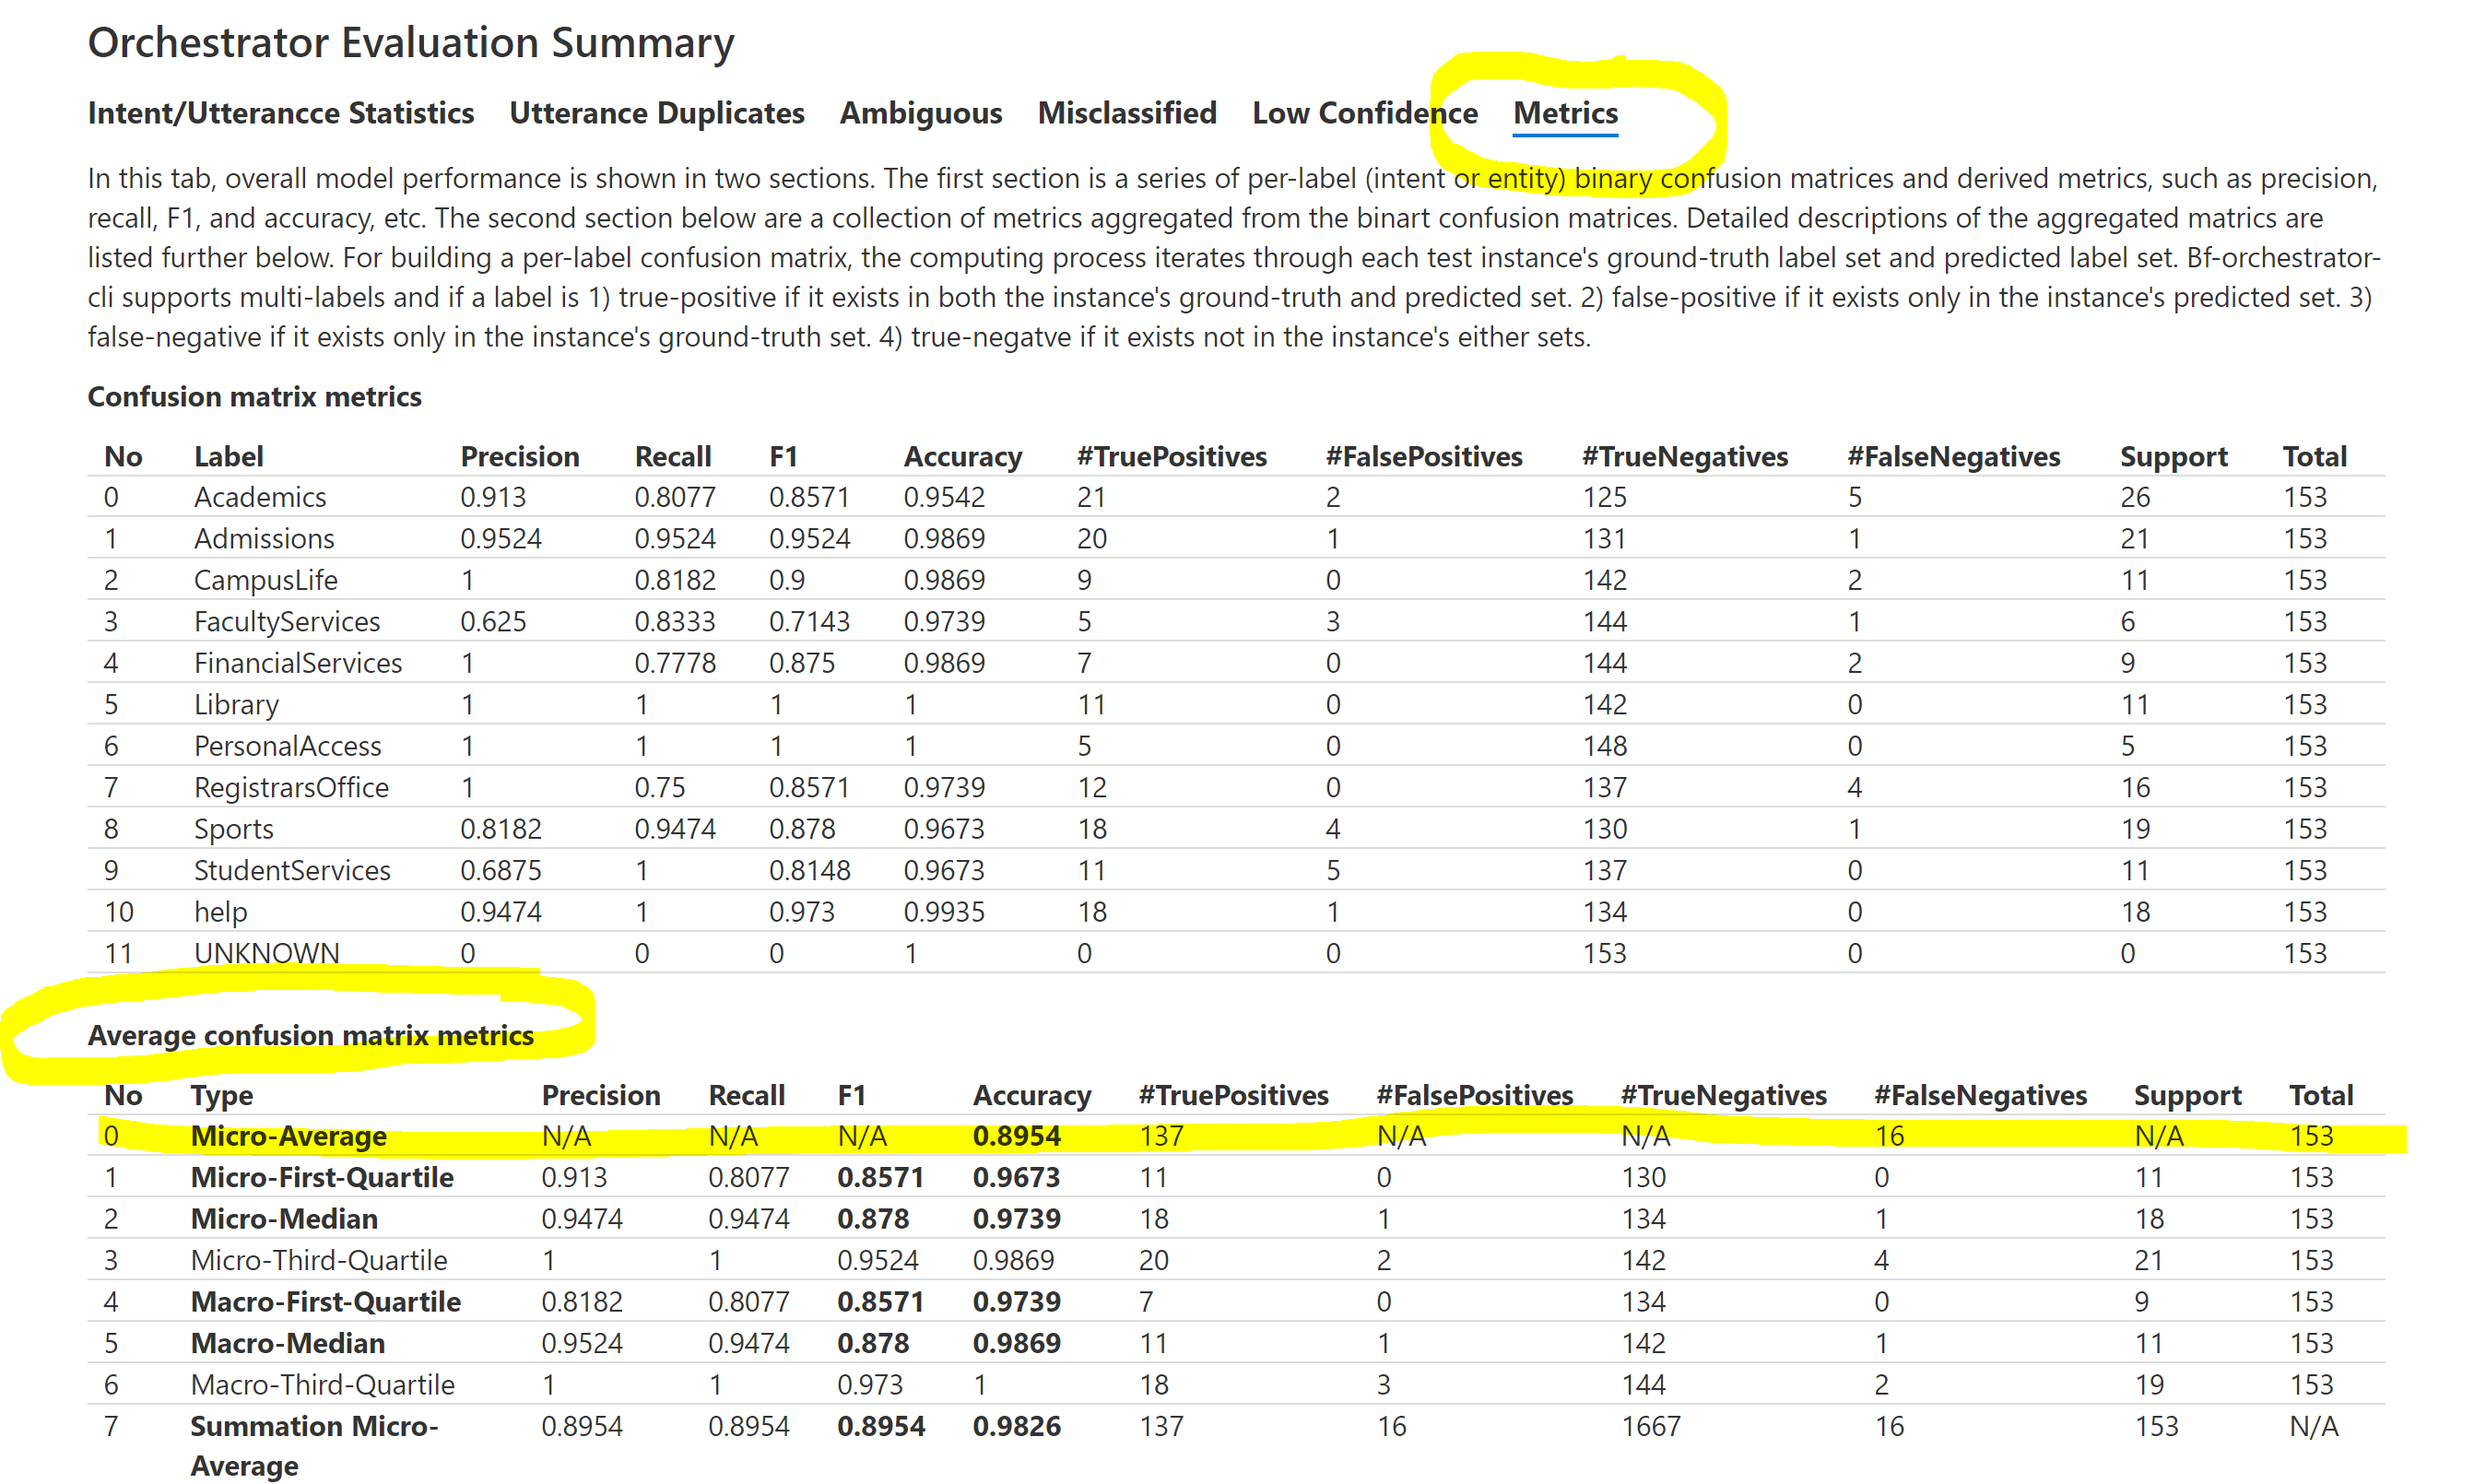
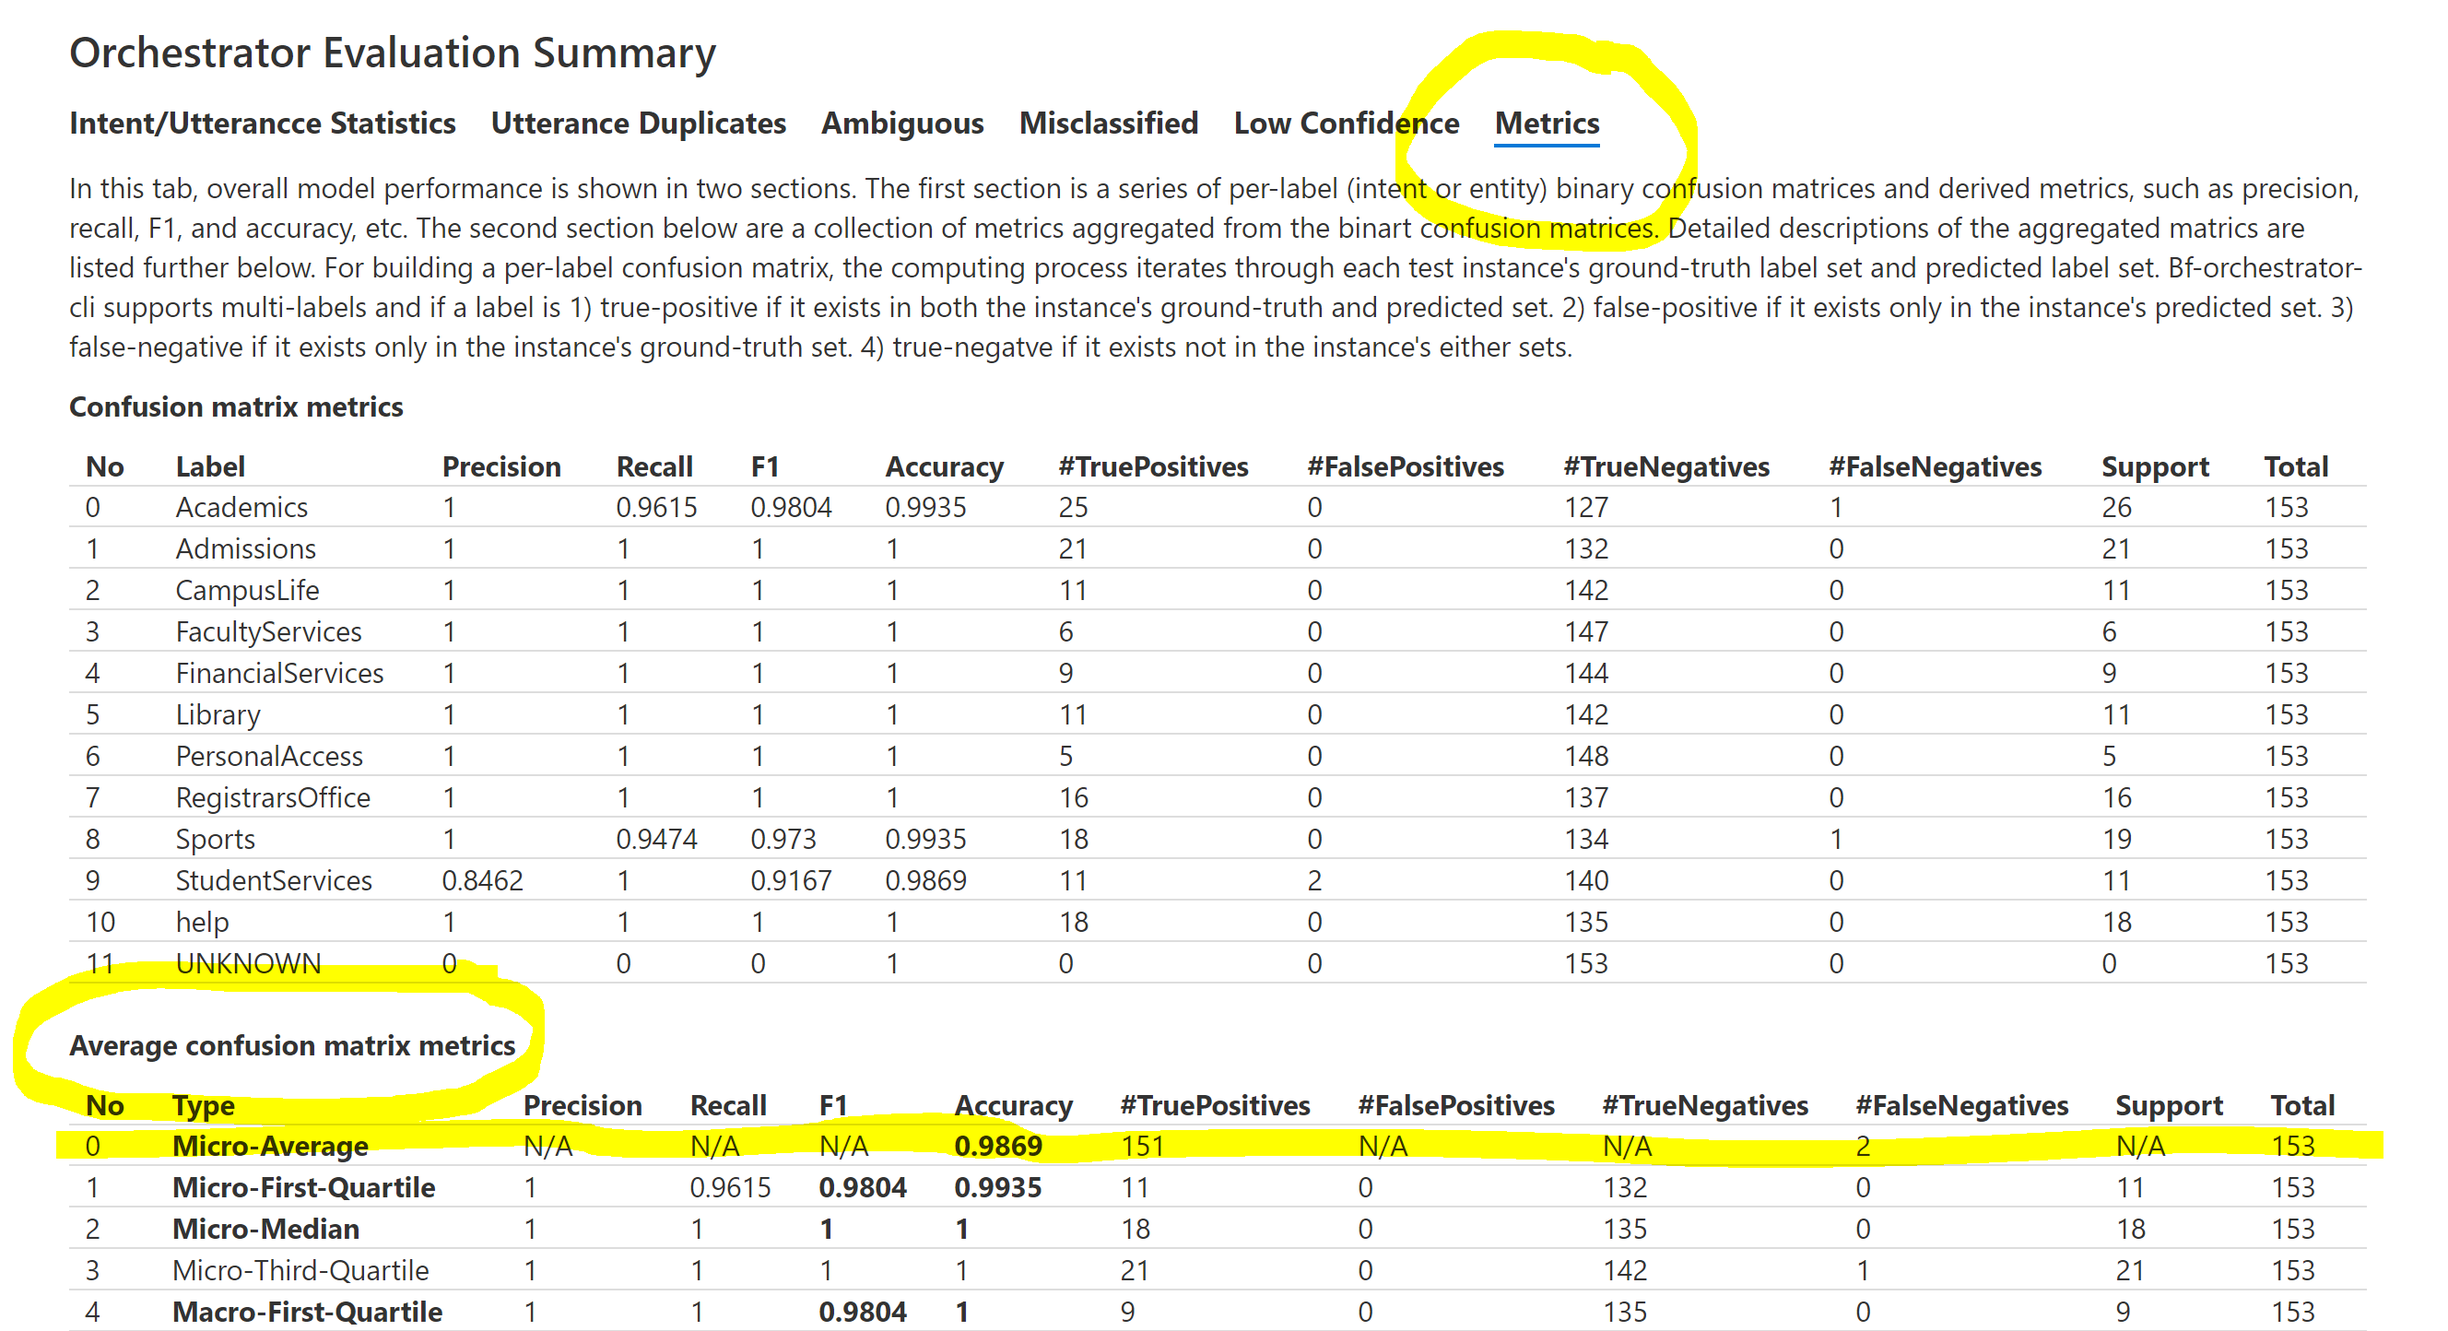
editing according to Eyal's comments (#2926)
* editing according to Eyal's comments

* done until # help

* down to 290 samples

* Update schoolnavigatorbot.train.lu

* new pictures

* Update README.md

* try to restart build

Changed region(s): [[0.0, 0.0, 1.0, 1.0]]

diff --git a/experimental/orchestrator/Composer/01.school-skill-navigator/README.md b/experimental/orchestrator/Composer/01.school-skill-navigator/README.md
@@ -79,17 +79,17 @@ The snapshot of the language model file should be written to schoolnavigatorbot.
 
 Evaluation reports should be written to folder [report](report). Detail report interpretation can be found [here](https://github.com/microsoft/botframework-sdk/blob/main/Orchestrator/docs/BFOrchestratorReport.md).
 
-- Open **report/orchestrator_testing_set_summary.html** through a browser, and navigate to the **Average confusion matrix metrics** section from the last page **Metrics**, you will find the recommended evaluation metric: **Micro-Average Accuracy** = 0.8954.![Metrics](report/merics.PNG)
+- Open **report/orchestrator_testing_set_summary.html** through a browser, and navigate to the **Average confusion matrix metrics** section from the last page **Metrics**, you will find the recommended evaluation metric: **Micro-Average Accuracy** = 0.9869.![Metrics](report/merics.PNG)
 
 ### Improve
 
-Accuracy 0.8954 is high but not perfect yet. To improve the quality of the training set, we could benefit from the **Misclassified** information from the evaluation report. In this page, all mis-labeled query utterances from the test set are listed. **Labels** refer to the ground-truth labels, and **predictions** refer to the model predictions.![Misclassified](report/misclassified.PNG)
+Accuracy 0.9869 is high but not perfect yet. To improve the quality of the training set, we could benefit from the **Misclassified** information from the evaluation report. In this page, all mis-labeled query utterances from the test set are listed. **Labels** refer to the ground-truth labels, and **predictions** refer to the model predictions. In our example, there are 2 mis-labeled utterances, we will use them to illustrate the improving process here.![Misclassified](report/misclassified.PNG)
 
-Next we are going to use the first two mis-classified query utterances to show how to improve the training set.
+Next we are going to use the two mis-classified query utterances to show how to improve the training set. 
 
 - The first utterance "where are the tennis courts" should be labeled as Sports, but is mis-labeled as StudentServices. Closest Example shows the closest evidence example from that category, and Score shows the similarity between the query utterance and Closest Example. Taking a closer look into the examples, "where are the Recreation facilities" and "where's the gym" are essentially referring to the same thing, but separated into different labels, which eventually confused the model. To clarify the concepts, we could **manually relabel the utterance "where are the Recreation facilities" by moving it  from # StudentServices to # Sports in schoolnavigatorbot.train.lu.** 
 
-- The second utterance "where is the Healthcare Management school" should be labeled as Academics, but is mis-labeled as StudentServices. To correct the query prediction, we could **manually add it ("where is the Healthcare Management school") to # Academics in schoolnavigatorbot.train.lu.**
+- The second utterance "where is the Healthcare Management school" should be labeled as Academics, but is mis-labeled as StudentServices. To correct the query prediction, we could **manually add a close example ("where can I find Healthcare Management") to # Academics in schoolnavigatorbot.train.lu.**
 
 - After fixing the two query utterances, we could try the evaluation process again to check the progress:
 
@@ -98,7 +98,10 @@ Next we are going to use the first two mis-classified query utterances to show h
   > bf orchestrator:test -m model -i schoolnavigatorbot.train.blu -t schoolnavigatorbot.test.lu -o report
   ```
 
-- Open **report/orchestrator_testing_set_summary.html** again, and check the **Micro-Average** under **Metrics** page, the accuracy has improved from 0.8953 to 0.9085, and the two query utterances no longer show up in misclassified page.
+- Open **report/orchestrator_testing_set_summary.html** again, and check the **Micro-Average** under **Metrics** page, the accuracy has improved from 0.9869 to 1, and the two query utterances no longer show up in misclassified page.
+
+- In practice, users could repeat the aforementioned procedures until they are satisfied with accuracy, refined as (1) using Misclassified page to check for mis-labeled utterances; (2) editing .lu file to add or relabel utterances; (3) using bf orchestrator:create to regenerate the language model; and (4) using bf orchestrator:test to evaluate the performance.
+
 - Advanced users could also use bf orchestrator:interactive to interactively add/change/remove example utterances to improve the training set. Further information please refer to [bf orchestrator interactive](https://github.com/microsoft/botframework-sdk/blob/main/Orchestrator/docs/BFOrchestratorInteractive.md#start-an-interactive-session-with-a-training-set). 
 
 
